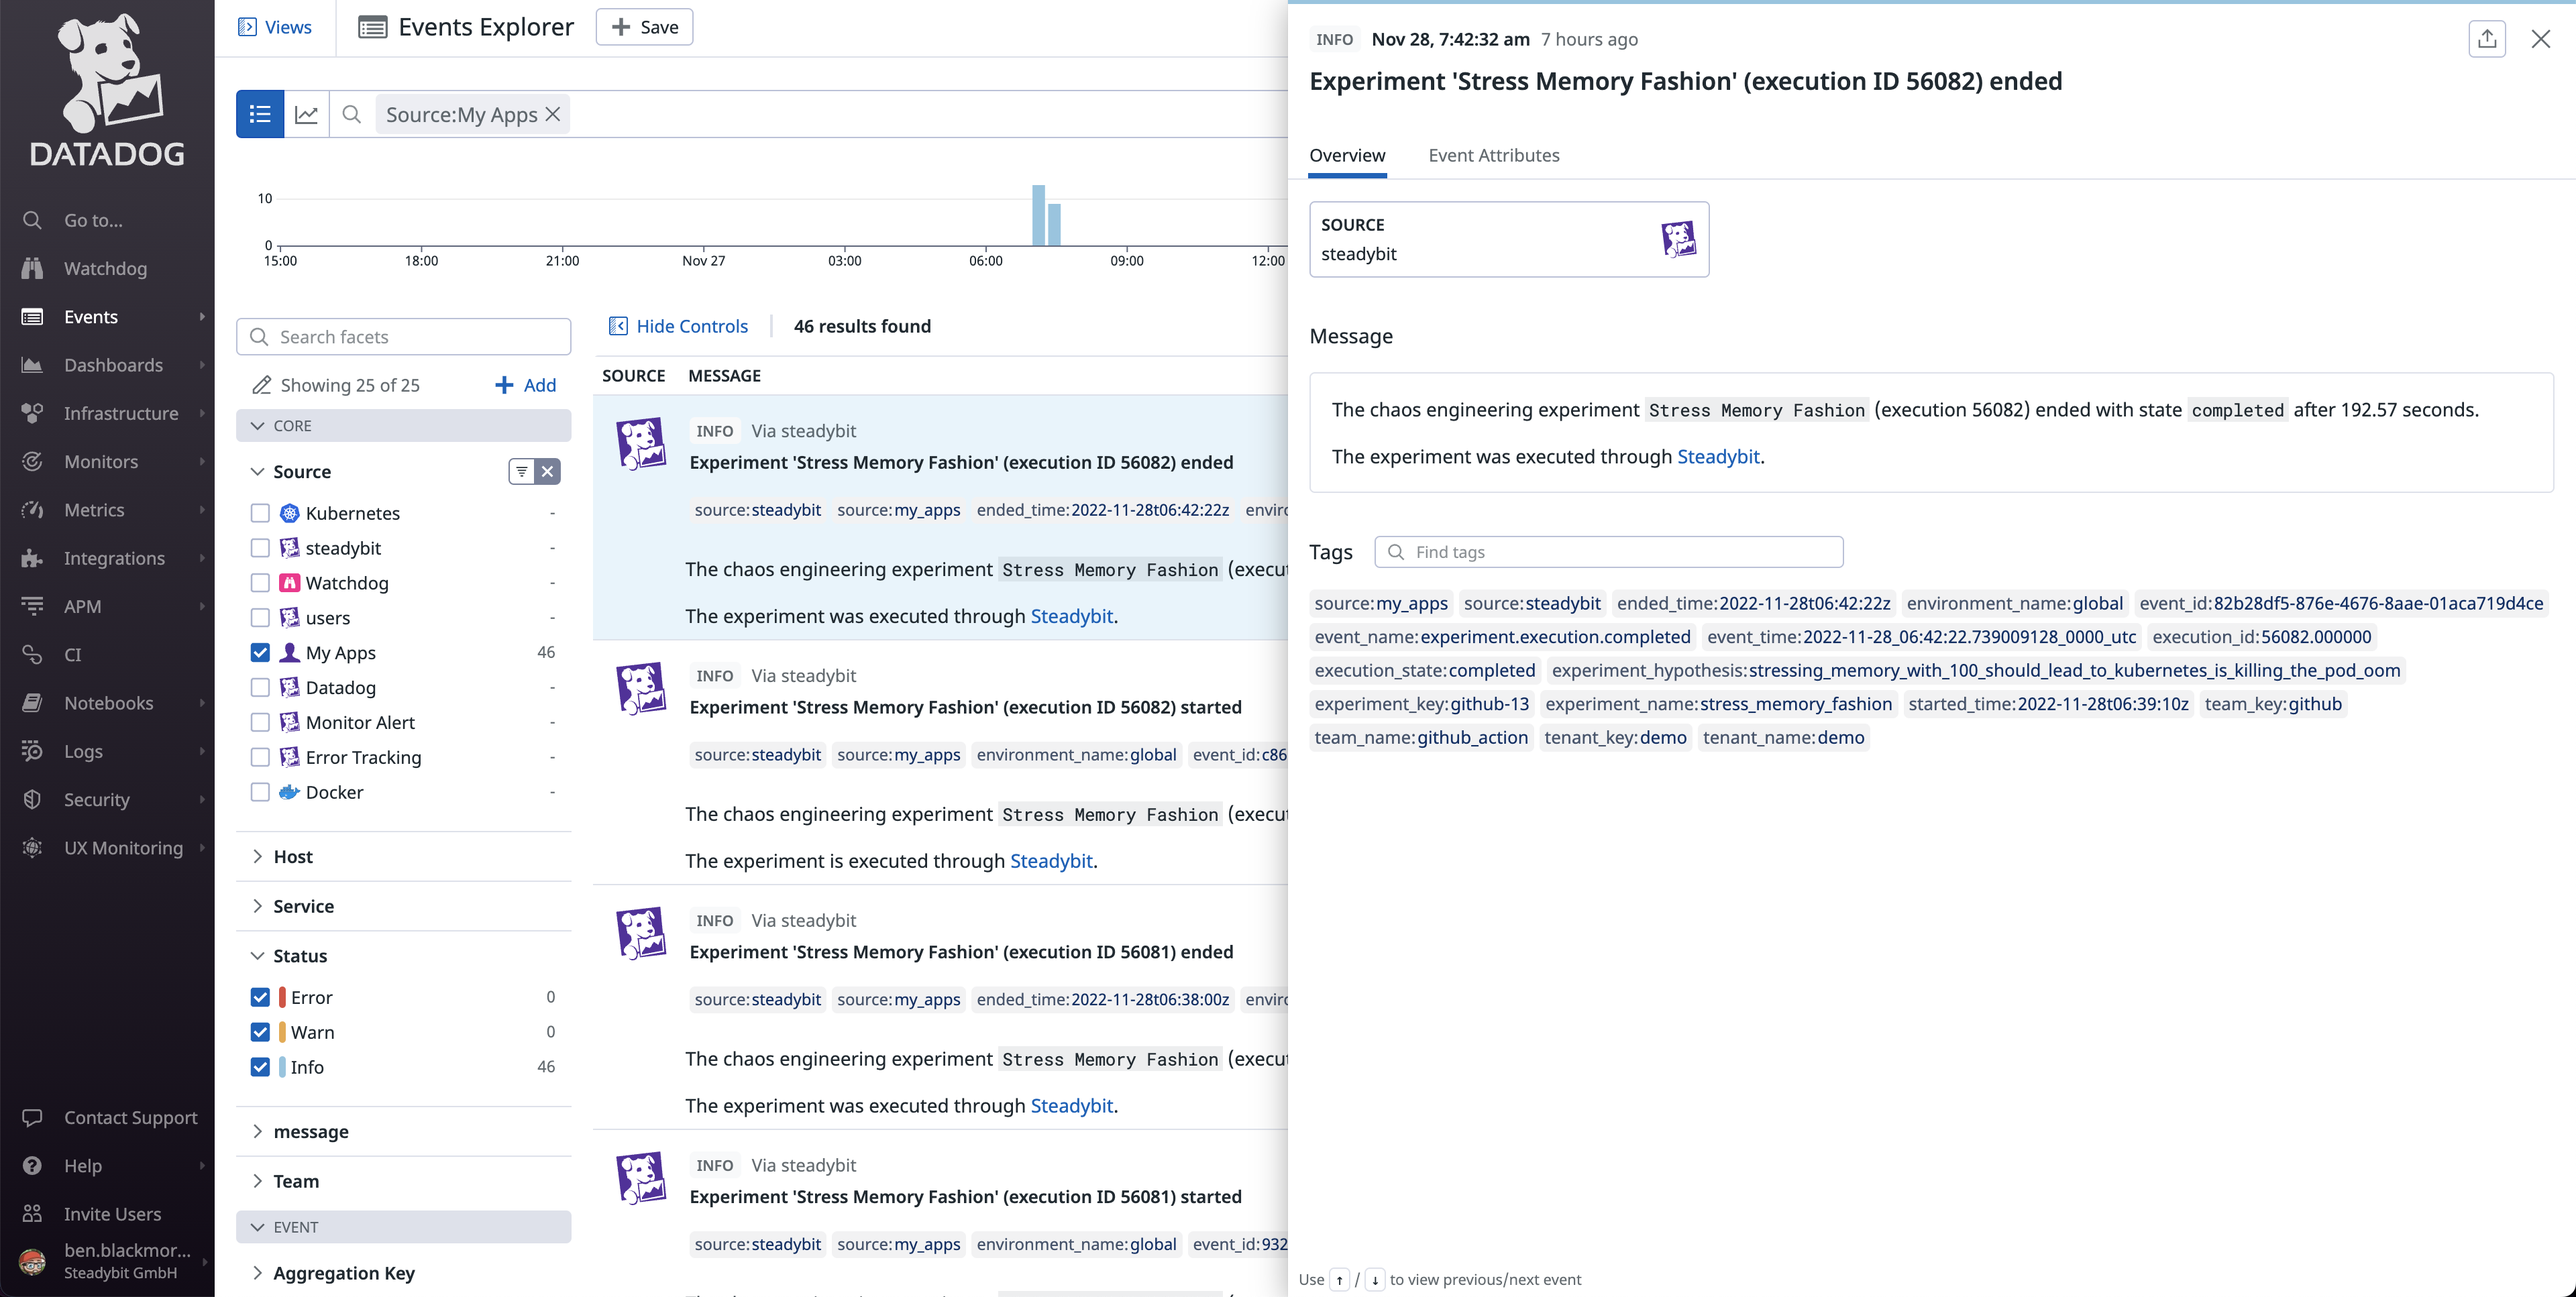
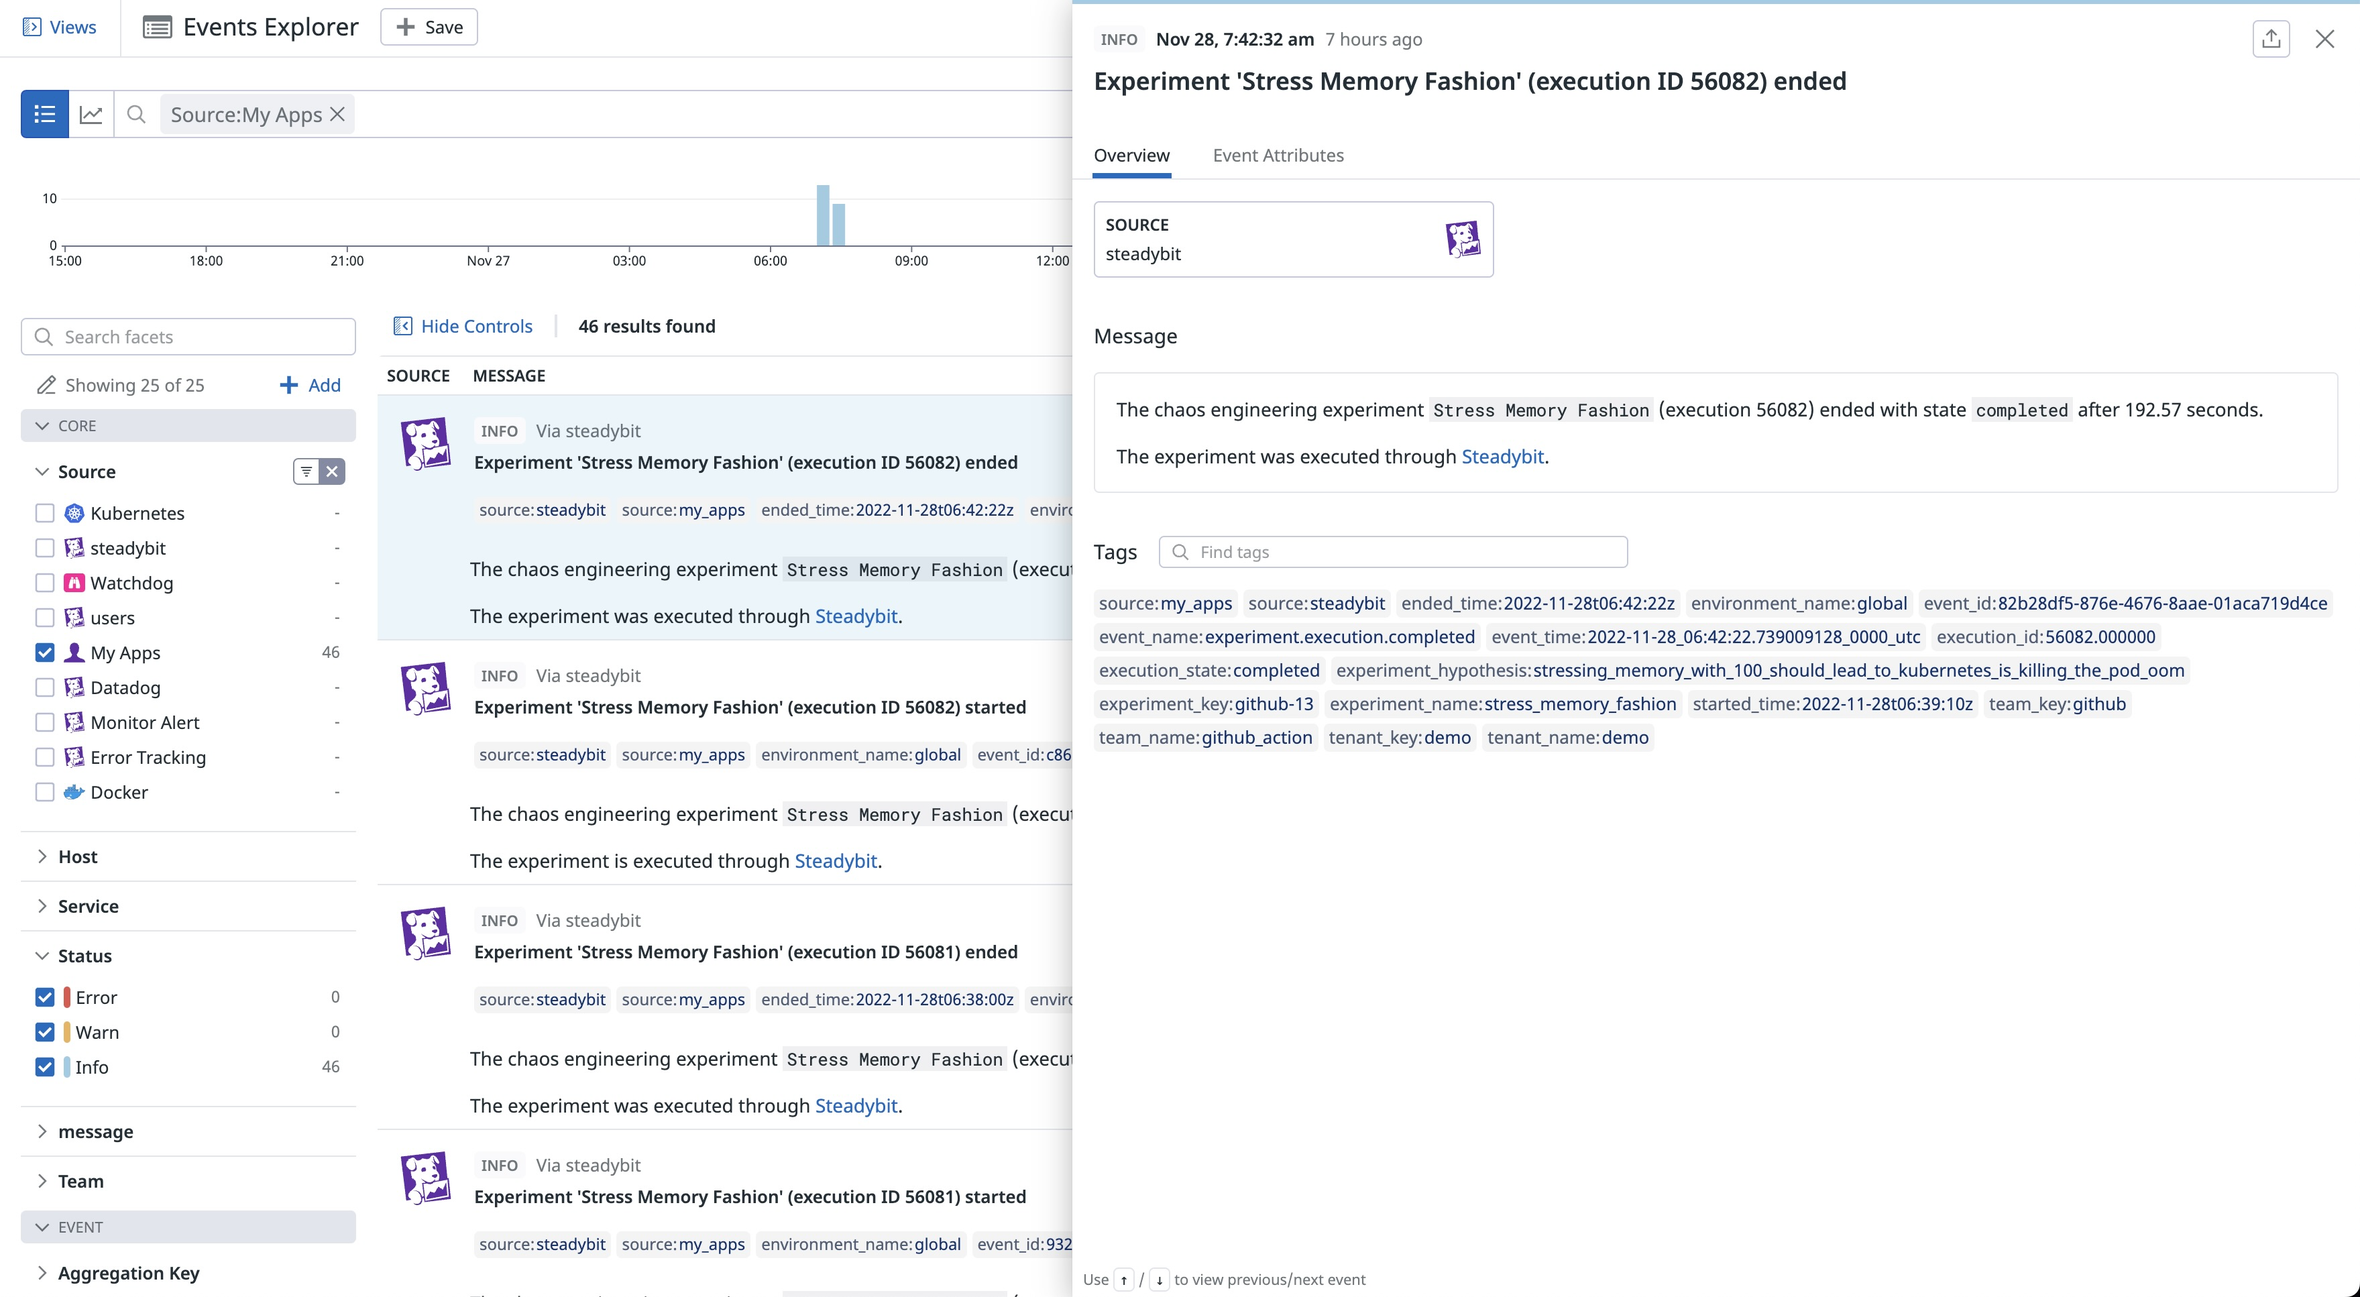
(DOCS-7761) Update screenshots for nav

diff --git a/twingate/README.md b/twingate/README.md
@@ -109,7 +109,7 @@ Additional helpful documentation, links, and articles:
 [5]: https://docs.datadoghq.com/agent/logs/?tab=journald
 [6]: https://docs.datadoghq.com/logs/explorer/facets/#manage-facets
 [7]: https://docs.datadoghq.com/logs/log_configuration/pipelines/?tab=source#create-a-pipeline
-[8]: https://raw.githubusercontent.com/Twingate-Labs/datadog-integrations-extras/master/twingate/images/dashboard.png
+[8]: https://raw.githubusercontent.com/Twingate-Labs/datadog-integrations-extras/master/twingate/images/dashboard_2.png
 [9]: https://docs.datadoghq.com/logs/explorer/facets/#measures
 [10]: https://app.datadoghq.com/logs
 [11]: https://docs.datadoghq.com/getting_started/agent/
